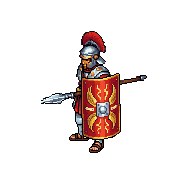
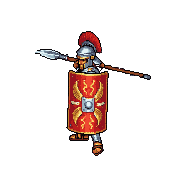
fix(百夫长第四轮): 掷矛补「扛矛上肩转身」+ 矛刃光贴着矛走 + 预警圈 / 裂坑再放大
- 用户 11-27「原本的四到五针之间要补一针…扛着这个矛…转身准备投掷」: 上一轮补的「握矛前倾送出」3 帧和第 4 帧几乎一样(用户「感觉没区别」), 去掉;
  用 throw2 第 8 帧(矛扛上肩、身子后拧, 原本矛尖朝后)经 edit_image_pro_flash 只把矛掉头, 插在后拉与甩出之间; 15 帧 @14, 出手下标 4 = 结算 0.29 秒(探针核过同一刻)
- 「特效肯定是要贴着这个矛来做」: 普攻叠加帧条 eq-centurion-attack-glow(build_cent_spear_glow.py 按逐帧量的矛坐标画锥形光 + 矛尖星闪),
  与本体同帧号 / 位置 / 朝向 / 尺寸叠播, 只在播普攻帧条时可见; 去掉上一轮钉在命中点、矛收回后还浮着的光; 叠加节点登记 _mfx(直播录得到)
- 「裂坑圈可以大一倍…预警圈还可以再大一点」: 预警圈 14 → 20 米, 落地裂坑 600 → 1200 码(≈29 米)

Changed region(s): [[0.1944, 0.1667, 0.8611, 0.8889]]

diff --git a/tools/oneoff/cent_fix4_1127.py b/tools/oneoff/cent_fix4_1127.py
@@ -1,0 +1,97 @@
+"""cent_fix4_1127.py —— 百夫长第四轮(用户 11-27):
+  「原本的四到五针之间要补一针…扛着这个矛…转身准备投掷」⇒ throw_mix 第三版 15 帧(见 ai_src/cent_char/throw_mix/SOURCE.txt), @14 ≈ 1.07 秒, 出手 = 下标 4(0.29 秒)
+  「矛刺出去…特效肯定是要贴着这个矛来做」⇒ 普攻叠加帧条 eq-centurion-attack-glow(tools/assetgen/build_cent_spear_glow.py 按逐帧量的矛坐标画):
+      每帧跟本体同帧号 / 同位置 / 同朝向 / 同像素尺寸, 只在本体正播普攻帧条时可见 ⇒ 光永远贴在矛上; 删掉上一轮钉在命中点的 _cent_tip_flash
+      叠加节点登记进 _mfx(hold 帧号每帧跟本体), 直播录得到
+一次性; 原行尾二进制读写, 每处替换恰好命中一次。
+"""
+import os
+
+ROOT = os.path.dirname(os.path.dirname(os.path.dirname(os.path.abspath(__file__))))
+
+
+def patch(rel, pairs):
+    p = os.path.join(ROOT, rel)
+    raw = open(p, "rb").read()
+    nl = "\r\n" if b"\r\n" in raw else "\n"
+    s = raw.decode("utf-8").replace("\r\n", "\n")
+    for a, b in pairs:
+        assert s.count(a) == 1, (rel, a[:70])
+        s = s.replace(a, b)
+    open(p, "wb").write(s.replace("\n", nl).encode("utf-8"))
+
+
+patch("tools/assetgen/pack_spear_chip_art.py", [
+    ('    "eq-centurion-throw":  ("throw_mix",     list(range(1, 18))),',
+     '    "eq-centurion-throw":  ("throw_mix",     list(range(1, 16))),   # 11-27 第三版 15 帧: 后拉 3 + 扛矛上肩转身 1 + 甩出随势 6 + 起身抽新矛 3 + 站直 2(见 SOURCE.txt), @14, 出手下标 4 #'),
+])
+
+patch("scripts/systems/equip/spear_synergy_system.gd", [
+    ("const THROW_ANIM := 1.06     # 11-27 掷矛 17 帧 @16(补了握矛送出 / 起身抽新矛两段过渡)\n",
+     "const THROW_ANIM := 1.07     # 11-27 掷矛 15 帧 @14(补了扛矛上肩转身 / 起身抽新矛)\n"),
+    ("const THROW_RELEASE := 0.38   # 出手帧 = 下标 6(16 fps)",
+     "const THROW_RELEASE := 0.29   # 出手帧 = 下标 4(14 fps)"),
+])
+
+patch("scripts/scenes/battle/spear_eq_vfx.gd", [
+    ("\t_cent_play(u, \"throw\", 16.0)   # 17 帧 @16, 出手帧下标 6(结算 THROW_RELEASE 0.38 同一刻)\n",
+     "\t_cent_play(u, \"throw\", 14.0)   # 15 帧 @14, 出手帧下标 4(结算 THROW_RELEASE 0.29 同一刻)\n"),
+    ("\t_cent_tip_flash(u)\n", "\t_cent_glow_on(u)   # 矛刃光叠加层(贴着矛, 跟本体同帧)\n"),
+    ("func _cent_tip_flash(u: Dictionary) -> void:\n",
+     "## 普攻矛刃光叠加层: 一只百夫长一个节点, 首次普攻时建; 每帧跟本体同帧号 / 位置 / 朝向 / 尺寸, 只在本体播普攻帧条时显示\n"
+     "const CENT_GLOW_TEX := \"res://assets/sprites/vfx/eq-centurion-attack-glow.png\"\n"
+     "var _cent_glows: Array = []   # {u, node, mf}\n"
+     "\n"
+     "func _cent_glow_on(u: Dictionary) -> void:\n"
+     "\tfor g in _cent_glows:\n"
+     "\t\tif is_same(g[\"u\"], u):\n"
+     "\t\t\treturn\n"
+     "\tif not _ok() or not ResourceLoader.exists(CENT_GLOW_TEX):\n"
+     "\t\treturn\n"
+     "\tvar t: Texture2D = load(CENT_GLOW_TEX)\n"
+     "\tvar s := Sprite3D.new()\n"
+     "\ts.texture = t\n"
+     "\ts.hframes = maxi(1, t.get_width() / 192)\n"
+     "\ts.shaded = false\n"
+     "\ts.transparent = true\n"
+     "\ts.no_depth_test = true\n"
+     "\ts.render_priority = 9\n"
+     "\ts.texture_filter = BaseMaterial3D.TEXTURE_FILTER_NEAREST\n"
+     "\ts.billboard = BaseMaterial3D.BILLBOARD_ENABLED\n"
+     "\tbattle._world.add_child(s)\n"
+     "\t_mfx.append({\"node\": s, \"nf\": s.hframes, \"fps\": 0.0, \"t\": 0.0, \"life\": 0.0, \"loop\": false, \"follow\": null, \"h\": 0.0, \"hold\": 0})\n"
+     "\t_cent_glows.append({\"u\": u, \"node\": s, \"mf\": _mfx.back()})\n"
+     "\t_tick_cent_glows()\n"
+     "\n"
+     "\n"
+     "func _tick_cent_glows() -> void:\n"
+     "\tvar keep: Array = []\n"
+     "\tfor g in _cent_glows:\n"
+     "\t\tvar n = g[\"node\"]\n"
+     "\t\tvar u: Dictionary = g[\"u\"]\n"
+     "\t\tvar spr = u.get(\"sprite\", null)\n"
+     "\t\tif n == null or not is_instance_valid(n) or not is_instance_valid(spr) or not u.get(\"alive\", false):\n"
+     "\t\t\t_free(n)\n"
+     "\t\t\tcontinue\n"
+     "\t\tvar s: Sprite3D = n\n"
+     "\t\tvar src: Sprite3D = spr\n"
+     "\t\tvar tx = (u.get(\"anim_sd\", {}) as Dictionary).get(\"tex\", null)\n"
+     "\t\tvar on: bool = tx != null and (tx as Texture2D).resource_path.ends_with(\"eq-centurion-attack.png\") and src.frame < s.hframes\n"
+     "\t\t(g[\"mf\"] as Dictionary)[\"hold\"] = src.frame if on else 0\n"
+     "\t\ts.frame = src.frame if on else 0\n"
+     "\t\ts.modulate = Color(1.0, 1.0, 1.0, 1.0 if on else 0.0)\n"
+     "\t\ts.pixel_size = src.pixel_size\n"
+     "\t\ts.offset = src.offset\n"
+     "\t\ts.flip_h = src.flip_h\n"
+     "\t\ts.global_position = src.global_position\n"
+     "\t\tkeep.append(g)\n"
+     "\t_cent_glows = keep\n"
+     "\n"
+     "\n"
+     "func _cent_tip_flash_unused(u: Dictionary) -> void:   # 上一轮钉在命中点的版本(矛收回后光还浮着), 11-27 第四轮起不用\n"),
+    ("\t_tick_fall(delta)\n\t_tick_aegis()\n",
+     "\t_tick_fall(delta)\n\t_tick_aegis()\n\t_tick_cent_glows()\n"),
+    ("func clear() -> void:\n\tsuper.clear()\n\t_stig.clear()\n",
+     "func clear() -> void:\n\tsuper.clear()\n\t_cent_glows.clear()\n\t_stig.clear()\n"),
+])
+print("ok")

diff --git a/tools/oneoff/cent_fix4_vfx_1127.py b/tools/oneoff/cent_fix4_vfx_1127.py
@@ -1,0 +1,85 @@
+"""cent_fix4_vfx_1127.py —— cent_fix4_1127.py 的演出段(主脚本前两段已生效、这段锚点写错后重跑)。 —— 百夫长第四轮(用户 11-27):
+  「原本的四到五针之间要补一针…扛着这个矛…转身准备投掷」⇒ throw_mix 第三版 15 帧(见 ai_src/cent_char/throw_mix/SOURCE.txt), @14 ≈ 1.07 秒, 出手 = 下标 4(0.29 秒)
+  「矛刺出去…特效肯定是要贴着这个矛来做」⇒ 普攻叠加帧条 eq-centurion-attack-glow(tools/assetgen/build_cent_spear_glow.py 按逐帧量的矛坐标画):
+      每帧跟本体同帧号 / 同位置 / 同朝向 / 同像素尺寸, 只在本体正播普攻帧条时可见 ⇒ 光永远贴在矛上; 删掉上一轮钉在命中点的 _cent_tip_flash
+      叠加节点登记进 _mfx(hold 帧号每帧跟本体), 直播录得到
+一次性; 原行尾二进制读写, 每处替换恰好命中一次。
+"""
+import os
+
+ROOT = os.path.dirname(os.path.dirname(os.path.dirname(os.path.abspath(__file__))))
+
+
+def patch(rel, pairs):
+    p = os.path.join(ROOT, rel)
+    raw = open(p, "rb").read()
+    nl = "\r\n" if b"\r\n" in raw else "\n"
+    s = raw.decode("utf-8").replace("\r\n", "\n")
+    for a, b in pairs:
+        assert s.count(a) == 1, (rel, a[:70])
+        s = s.replace(a, b)
+    open(p, "wb").write(s.replace("\n", nl).encode("utf-8"))
+
+
+patch("scripts/scenes/battle/spear_eq_vfx.gd", [
+    ("\t_cent_play(u, \"throw\", 16.0)   # 17 帧 @16, 出手帧下标 6(结算 THROW_RELEASE 0.38 同一刻)\n",
+     "\t_cent_play(u, \"throw\", 14.0)   # 15 帧 @14, 出手帧下标 4(结算 THROW_RELEASE 0.29 同一刻)\n"),
+    ("\t_cent_tip_flash(u)\n", "\t_cent_glow_on(u)   # 矛刃光叠加层(贴着矛, 跟本体同帧)\n"),
+    ("func _cent_tip_flash(u: Dictionary) -> void:\n",
+     "## 普攻矛刃光叠加层: 一只百夫长一个节点, 首次普攻时建; 每帧跟本体同帧号 / 位置 / 朝向 / 尺寸, 只在本体播普攻帧条时显示\n"
+     "const CENT_GLOW_TEX := \"res://assets/sprites/vfx/eq-centurion-attack-glow.png\"\n"
+     "var _cent_glows: Array = []   # {u, node, mf}\n"
+     "\n"
+     "func _cent_glow_on(u: Dictionary) -> void:\n"
+     "\tfor g in _cent_glows:\n"
+     "\t\tif is_same(g[\"u\"], u):\n"
+     "\t\t\treturn\n"
+     "\tif not _ok() or not ResourceLoader.exists(CENT_GLOW_TEX):\n"
+     "\t\treturn\n"
+     "\tvar t: Texture2D = load(CENT_GLOW_TEX)\n"
+     "\tvar s := Sprite3D.new()\n"
+     "\ts.texture = t\n"
+     "\ts.hframes = maxi(1, t.get_width() / 192)\n"
+     "\ts.shaded = false\n"
+     "\ts.transparent = true\n"
+     "\ts.no_depth_test = true\n"
+     "\ts.render_priority = 9\n"
+     "\ts.texture_filter = BaseMaterial3D.TEXTURE_FILTER_NEAREST\n"
+     "\ts.billboard = BaseMaterial3D.BILLBOARD_ENABLED\n"
+     "\tbattle._world.add_child(s)\n"
+     "\t_mfx.append({\"node\": s, \"nf\": s.hframes, \"fps\": 0.0, \"t\": 0.0, \"life\": 0.0, \"loop\": false, \"follow\": null, \"h\": 0.0, \"hold\": 0})\n"
+     "\t_cent_glows.append({\"u\": u, \"node\": s, \"mf\": _mfx.back()})\n"
+     "\t_tick_cent_glows()\n"
+     "\n"
+     "\n"
+     "func _tick_cent_glows() -> void:\n"
+     "\tvar keep: Array = []\n"
+     "\tfor g in _cent_glows:\n"
+     "\t\tvar n = g[\"node\"]\n"
+     "\t\tvar u: Dictionary = g[\"u\"]\n"
+     "\t\tvar spr = u.get(\"sprite\", null)\n"
+     "\t\tif n == null or not is_instance_valid(n) or not is_instance_valid(spr) or not u.get(\"alive\", false):\n"
+     "\t\t\t_free(n)\n"
+     "\t\t\tcontinue\n"
+     "\t\tvar s: Sprite3D = n\n"
+     "\t\tvar src: Sprite3D = spr\n"
+     "\t\tvar tx = (u.get(\"anim_sd\", {}) as Dictionary).get(\"tex\", null)\n"
+     "\t\tvar on: bool = tx != null and (tx as Texture2D).resource_path.ends_with(\"eq-centurion-attack.png\") and src.frame < s.hframes\n"
+     "\t\t(g[\"mf\"] as Dictionary)[\"hold\"] = src.frame if on else 0\n"
+     "\t\ts.frame = src.frame if on else 0\n"
+     "\t\ts.modulate = Color(1.0, 1.0, 1.0, 1.0 if on else 0.0)\n"
+     "\t\ts.pixel_size = src.pixel_size\n"
+     "\t\ts.offset = src.offset\n"
+     "\t\ts.flip_h = src.flip_h\n"
+     "\t\ts.global_position = src.global_position\n"
+     "\t\tkeep.append(g)\n"
+     "\t_cent_glows = keep\n"
+     "\n"
+     "\n"
+     "func _cent_tip_flash_unused(u: Dictionary) -> void:   # 上一轮钉在命中点的版本(矛收回后光还浮着), 11-27 第四轮起不用\n"),
+    ("\t_tick_fall(delta)\n\t_tick_aegis()\n",
+     "\t_tick_fall(delta)\n\t_tick_aegis()\n\t_tick_cent_glows()\n"),
+    ("func clear() -> void:\n\tsuper.clear()\n\t_stig.clear()\n",
+     "func clear() -> void:\n\tsuper.clear()\n\t_cent_glows.clear()\n\t_stig.clear()\n"),
+])
+print("ok")

diff --git a/tools/assetgen/build_cent_spear_glow.py b/tools/assetgen/build_cent_spear_glow.py
@@ -1,0 +1,66 @@
+"""build_cent_spear_glow.py —— 百夫长普攻「矛刃突刺光」叠加帧条(11-27 用户「矛刺出去…特效肯定是要贴着这个矛来做」)
+和 assets/sprites/vfx/eq-centurion-attack.png 一一对应(同帧数、同 192 方帧): 引擎里与本体同帧号、同位置、同朝向叠着播 ⇒ 光永远贴在矛上。
+做法(如实): 矛尖与矛杆方向是我逐帧看着普攻帧条量的坐标(下表), 脚本按坐标沿矛的前段画一道锥形光(外圈金、内圈浅金、芯白),
+矛尖处最亮帧加一颗四角星闪; 每帧亮度按刺的节奏(4 起刺 → 5 刺到最远最亮 → 6 停住 → 7 收回渐灭)。重跑逐字节相同。
+    python tools/assetgen/build_cent_spear_glow.py
+"""
+import math, os
+from PIL import Image, ImageDraw
+
+ROOT = os.path.dirname(os.path.dirname(os.path.dirname(os.path.abspath(__file__))))
+SRC = os.path.join(ROOT, "assets", "sprites", "vfx", "eq-centurion-attack.png")
+DST = os.path.join(ROOT, "assets", "sprites", "vfx", "eq-centurion-attack-glow.png")
+FW = 192
+## 帧号: (矛尖, 矛杆上往后的一点, 光的长度(像素), 强度 0~1, 星闪)
+SPEAR = {
+    4: ((48, 136), (152, 116), 30, 0.55, False),
+    5: ((21, 161), (68, 141), 50, 1.00, True),
+    6: ((26, 155), (74, 136), 46, 0.75, True),
+    7: ((42, 121), (147, 135), 30, 0.35, False),
+}
+GOLD = (246, 196, 74)
+PALE = (255, 232, 154)
+WHITE = (255, 255, 255)
+
+
+def cone(d, tip, back, length, w_tip, w_back, col, a):
+    dx, dy = back[0] - tip[0], back[1] - tip[1]
+    n = math.hypot(dx, dy) or 1.0
+    ux, uy = dx / n, dy / n
+    px, py = -uy, ux
+    ex, ey = tip[0] + ux * length, tip[1] + uy * length
+    sx, sy = tip[0] - ux * 3, tip[1] - uy * 3   # 光往矛尖前面冒 3 像素
+    pts = [(sx + px * w_tip, sy + py * w_tip), (ex + px * w_back, ey + py * w_back),
+           (ex - px * w_back, ey - py * w_back), (sx - px * w_tip, sy - py * w_tip)]
+    d.polygon([(round(x), round(y)) for x, y in pts], fill=col + (a,))
+
+
+def main():
+    src = Image.open(SRC)
+    n = src.width // FW
+    out = Image.new("RGBA", (FW * n, FW), (0, 0, 0, 0))
+    for i in range(n):
+        if i not in SPEAR:
+            continue
+        tip, back, length, k, star = SPEAR[i]
+        f = Image.new("RGBA", (FW, FW), (0, 0, 0, 0))
+        d = ImageDraw.Draw(f)
+        cone(d, tip, back, length * 1.15, 7.0, 3.0, GOLD, int(90 * k))      # 外圈光晕(第一版只有 3.5 宽, 游戏里看不出)
+        cone(d, tip, back, length, 5.0, 2.0, GOLD, int(200 * k))
+        cone(d, tip, back, length * 0.8, 3.2, 1.2, PALE, int(240 * k))
+        cone(d, tip, back, length * 0.55, 1.6, 0.6, WHITE, int(255 * k))
+        if star:
+            r = 11 if k >= 0.9 else 6
+            x, y = tip
+            for (ax, ay) in [(1, 0), (0, 1)]:
+                d.line([(x - ax * r, y - ay * r), (x + ax * r, y + ay * r)], fill=WHITE + (255,), width=1)
+            d.line([(x - r // 2, y - r // 2), (x + r // 2, y + r // 2)], fill=PALE + (200,), width=1)
+            d.line([(x - r // 2, y + r // 2), (x + r // 2, y - r // 2)], fill=PALE + (200,), width=1)
+            d.point((x, y), fill=WHITE + (255,))
+        out.paste(f, (i * FW, 0))
+    out.save(DST, optimize=False)
+    print("ok", n, "帧 →", DST)
+
+
+if __name__ == "__main__":
+    main()

diff --git a/tools/assetgen/pack_spear_chip_art.py b/tools/assetgen/pack_spear_chip_art.py
@@ -114,7 +114,7 @@ CENT2 = {
     "eq-centurion-idle":   ("idle",          [0, 1, 2, 3]),
     "eq-centurion-walk":   ("walk_skel",     [0, 1, 2, 3, 4, 5]),
     "eq-centurion-attack": ("attack2",       [1, 2, 3, 4, 5, 6, 7, 8, 1, 0]),          # 命中 = 原第 6 帧(矛尖最远) = 下标 5; 末尾补回 1 / 0 接待机
-    "eq-centurion-throw":  ("throw_mix",     list(range(1, 18))),   # 11-27 第二版 17 帧: 后拉 3 + 握矛送出 3 + 甩出随势 6 + 起身抽新矛 3 + 站直 2(见 SOURCE.txt), @16, 出手下标 6 #                      # 11-27 拼接(见 ai_src/cent_char/throw_mix/SOURCE.txt): 起手 4 帧(矛尖朝前后拉) + 下标 4 前冲甩出矛离手 + 随势 + 掏新矛; 12 帧 @12 = 1 秒
+    "eq-centurion-throw":  ("throw_mix",     list(range(1, 16))),   # 11-27 第三版 15 帧: 后拉 3 + 扛矛上肩转身 1 + 甩出随势 6 + 起身抽新矛 3 + 站直 2(见 SOURCE.txt), @14, 出手下标 4 #   # 11-27 第二版 17 帧: 后拉 3 + 握矛送出 3 + 甩出随势 6 + 起身抽新矛 3 + 站直 2(见 SOURCE.txt), @16, 出手下标 6 #                      # 11-27 拼接(见 ai_src/cent_char/throw_mix/SOURCE.txt): 起手 4 帧(矛尖朝前后拉) + 下标 4 前冲甩出矛离手 + 随势 + 掏新矛; 12 帧 @12 = 1 秒
     "eq-centurion-shield": ("shield_brace2", [3, 4, 5, 6, 7, 8] + [8] * 36),           # 下蹲举盾 6 帧 + 撑盾(结构同旧帧条, 引擎按举盾秒数算播放速度)
     "eq-centurion-sweep":  ("spin_sweep",    list(range(5, 17))),                      # 原地转一圈横扫(前 5 帧几乎不动, 截掉)
     "eq-centurion-death":  ("death",         [0, 1, 2, 3, 4, 5, 6, 7, 8, 8, 8, 8]),     # 末帧连停 4 拍
